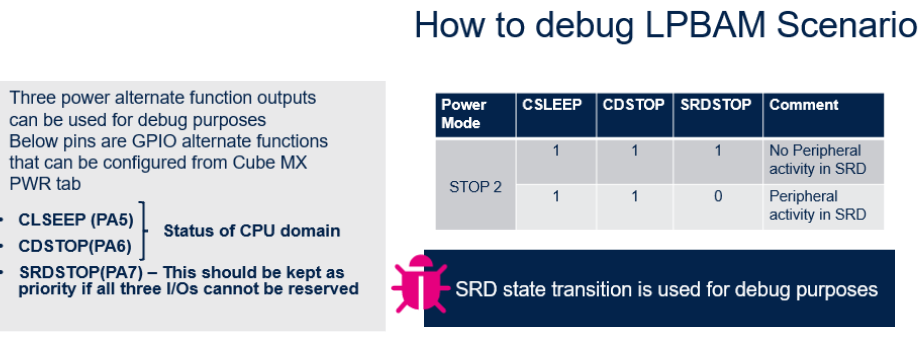
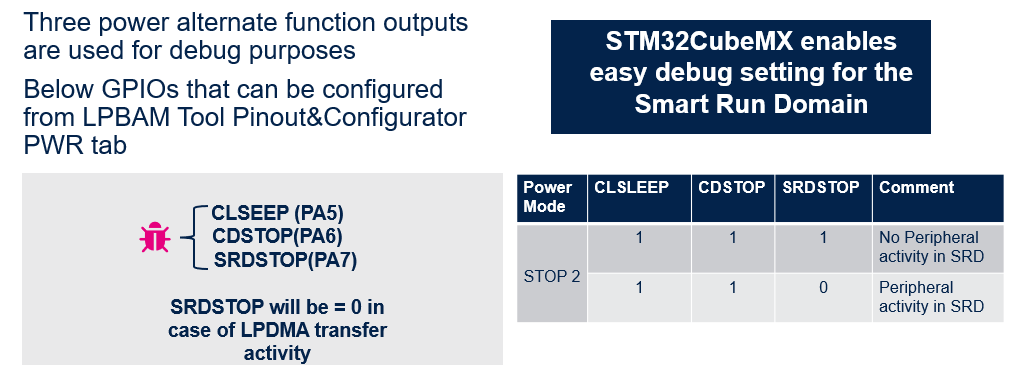
final for dry run

diff --git a/lpbam/theory/theory.md b/lpbam/theory/theory.md
@@ -1,9 +1,11 @@
 # 1 - Definition 
 ## LPBAM = Low Power Background Autonomous Mode
 
-*LPBAM* is an operating mode that allows peripherals to be functional and autonomous independently from power modes and without any software running.
-It is performed thanks to a dedicated hardware subsystem embedded in the STM32U5 microcontroller.
-It's a subsystem mechanism that makes use of DMA to configure features for several pheriperals and transfer datas if needed for communication pheriperals
+- **LPBAM** is an operating mode that allows peripherals to be functional and autonomous independently from power modes and without any software running.
+
+- It is performed thanks to a **dedicated** hardware subsystem embedded in the STM32U5 microcontroller.
+
+- It's a **subsystem mechanism** that makes use of DMA to configure features for several pheriperals and transfer data
 
 
 <!--  
@@ -42,7 +44,7 @@ Data transfers are done by DMA instead of CPU -->
   
   - LPBAM is not an IP but a *subsystem* mechanism
   - An LPBAM task can operate *independently* of device power mode (STOP 0/1/2) and without any software running on CPU thanks to DMA data transactions.
-  - An asynchronous events/interrupts can be programmed to wake up the system thanks to *autonomous peripherals* (Not all peripheral).
+  - Asyncronous events/interrupts can be programmed to wake up the system thanks to **autonomous peripherals** (Not all peripheral).
   - Automatic start of the peripheral thanks to the hardware synchronous or asynchronous triggers (automated peripheral kernel clock switching).
 
 
@@ -50,36 +52,57 @@ Data transfers are done by DMA instead of CPU -->
 # 3 - LPBAM Use Cases
 ## I2C Slave/Master transfer - SPI or UART RX/TX
 
-The first applicative example can be a communication periperals like I2C/SPI/UART configured as Master or slave for transmission
-As showed in this example we can acquire data from the sensor like a gyroscope or an accelerometer periodically waking up on complete or on ISR or for example on TC,HC of DMA using LP timer to trig communication peripheral
+The first applicative example can be a communication periperals like I2C/SPI/UART configured as Master or slave for transmission.
+
+As showed in this example, we can acquire data from the sensor like a gyroscope or an accelerometer periodically waking up on complete or on ISR or for example on TC,HC of DMA using LP timer to trig communication peripheral.
 
 ![theory1](./img/02.png)
 
 
 ## ADC Conversion triggered by a Low Power Timer
-Another typical use case is  Trigger ADC via LPTIM, we will focus on this scenario on our Hands on.
-In this case I can use analog watchdog to wake up the core when I reach a certain threshold- with no data comparison inside DMA this is a good way to wake up the core when a comparator is included in the specific peripheral
+Another typical use case is  Trigger ADC via LPTIM.
+
+<ainfo>
+ we will focus on this scenario on our Hands on
+</ainfo>
+
+<p>
+
+
+</p>
+
+
+In this case, I can use analog watchdog to wake up the core when I reach a certain threshold- with no data comparison inside DMA this is a good way to wake up the core.
 
 ![theory1](./img/03.png)
 
 ## DAC Conversion in Sample&Hold
-On a similar approach, we can change value of DAC. This can currently be used only in S&H using capacitor to keep dac value – as we have a capacitor, DAC value should be periodically reloaded.
-This very suitable low frequency output as we are also using LSI clock
-Note : We need to wait oscillator wake up before starting the transfer
+On a similar approach, we can change value of DAC.
+This can currently be used only in S&H using capacitor to keep dac value – as we have a capacitor, DAC value should be periodically reloaded.
+This very suitable low frequency output might be clocked from LSI.
+
 
 ![theory1](./img/04.png)
 
 
 ## Voice Activity Detection with Audio Digital Filter
 We can handle the transfer in stop2 to and from an analog digital filter (ADF),  waking up if we detect noise or voice.
-This is another example of peripheral with embedded comparator that can be used to wake up from stop2
+This is another example of peripheral with embedded comparator that can be used to wake up from stop2.
+
+<ainfo>
+This feature is currently not available in CubeMX 6.5.0 but its integration it's planned during 2022
+</ainfo>
 
 ![theory1](./img/04.png)
 
 
 ## LPTIM PWM ratio change, Input Capture, Pulse Counter
 On a different scenario, I can also change PWM ratio using an external trigger on a certain threshold still being in STOP2 mode
-This is as well a good example on how to creatre control loop keeping ultra low power consumptions
+This is as well a good example on how to create control loops keeping ultra low power consumptions
+
+<info>
+We will see this scenario in our practical example
+</info>
 
 ![theory1](./img/06.png)
 
@@ -90,8 +113,8 @@ LPGPIO in STOP2 can be read or written. We can build some slow communication pro
 ![theory1](./img/07.png)
 
 ## Peripherals Chaining
-This is the most complex and special feature of LPBAM- We can concatenate different peripherals which are active in STOP2 to create peripheral chaining.
-For example, we can acquire temperature on periodic way based on LPTIM trigger of an ADC, in our case ADC4
+This is the most complex and special feature of LPBAM - We can concatenate different peripherals which are active in STOP2 to create peripheral chaining.
+For example, we can acquire temperature on periodic way based on LPTIM trigger of an ADC, in our case ADC4.
 
 When temp reaches a certain threshold, we send data on SPI to an external host micro
 Analog WDT from ADC can be used as trigger as well and can be used to trigger a data to be sent to a peripheral via SPI
@@ -100,46 +123,68 @@ Analog WDT from ADC can be used as trigger as well and can be used to trigger a 
 
 
 # 3- System Architecture and DMA Overview
-LPBAM makes use of DMA instance, STM32U5 includes a new DMA IP called version3 or DMAv3 replacing all DMA that were in other STM32 series. 
-It integrates all previous DMA features Trigger, DMAMUX MDMA etc.
+- LPBAM makes use of DMA instance, STM32U5 includes a new DMA IP.
 
-We have now a single DMA driver with two HW instances which are GPDMA and LPDMA.
-Both can be used in Linked list mode.
+- It integrates all previous DMA features Trigger, DMAMUX MDMA etc.
 
-GPDMA is on the CPU domain with 2 ports port 0 and port 1 LPDMA has a single port.
+- We have now a single DMA driver with **two HW instances** which are GPDMA and LPDMA.
+  
+  Both can be used in **Linked list mode**.
+
+- GPDMA is on the CPU domain with 2 ports port 0 and port 1, LPDMA is on the Smart Run Domain and has a single port.
 
 ![theory1](./img/13.png)
 
 # 4- LPDMA Architecture
+
+- The LPDMA controller is a bus master and system peripheral. 
+
+- The LPDMA is used to perform **programmable data transfers** between memory-mapped peripherals and/or memories via **linked-lists**, upon the control of an off-loaded CPU.
+
+<p>
+During the hands on we will see how LPDMA is configured via CubeMX and LPBAM Scenario&Configurator
+</p>
 ![theory1](./img/17.png)
 
 # 5- Smart Run Domain(SRD)
-This is a zoom on smartun domain which is a clock domain with 2 masters AHB and LPDMA and slaves which are  AHB3Peripehral and internal SRAM2.
+This is a zoom on smartun domain which is a clock domain with 2 masters AHB and LPDMA and 2 slaves which are AHB3Peripehral and internal SRAM4.
 
-AHB master is bidirectional and has 4 channels 
+<p>
+
+
+</p>
+
 <ainfo>
-LPDMA can only access smart run peripherals meaning that it can only access to SRAM4  and AHB3 peripherals not to others
+LPDMA can only access smart run peripherals meaning that it can only access to SRAM4 and AHB3 peripherals
 </ainfo>
+
+
+<p>
+
+
+</p>
 
 ![theory1](./img/10.png)
 
 # 6- GPDMA vs LPDMA
-Below main difference between GPDMA and LPDMA
+Below main differences between GPDMA and LPDMA:
 
 ![theory1](./img/11.png)
 
-# 7- AHB/APB Ditribution over domains
+# 7- AHB/APB Distribution over domains
 ![theory1](./img/20.png)
 
 # 8- Clock gating
 
-In LPBAM Peripherals work down to STOP2 mode thanks to their own independent clock request capability. 
+In LPBAM Peripherals work down to STOP2 mode thanks to their own **independent clock request capability**. 
+
 This is one of the key aspects of LPBAM subsystem mechanism which enables remarkable power saving.
 
 In other MCU we would had to wake up at every DMA transfer complete flag, with LPBAM subsystem this does not happen.
 
-LPDMA HW automatically manages its own clock gating, so bus and kernel clocks are requested to RCC only when needed
-This gives great contribution to achieve best optimization of dynamic clock and results into enormous power saving of the overall system
+LPDMA HW automatically manages its own **clock gating**, so bus and kernel clocks are requested to RCC only when needed.
+
+This gives great contribution to achieve best optimization of dynamic clock and results into enormous power saving of the overall system.
 
 ![theory1](./img/15.png)
 ![theory1](./img/16.png)
@@ -158,5 +203,8 @@ This gives great contribution to achieve best optimization of dynamic clock and 
 ![theory1](./img/21.png)
 
 # 12- How to Debug LPBAM Scenario
+
+
+![theory1](./img/25.png)
 
 ![theory1](./img/22.png)

diff --git a/lpbam/handson/step5/handson6.md b/lpbam/handson/step5/handson6.md
@@ -32,7 +32,7 @@ If Nucleo-U575 is no more connected and does not reset, reconnect jumper to JP5 
 
 </p>>
 
-![lpbam config](./img/0504.png)
+![lpbam config](./img/0504.gif)
 
 # 5 Power sequence
 
@@ -62,6 +62,13 @@ RCC_OscInitStruct.MSIKClockRange = RCC_MSIKRANGE_1;
 
 Open `Cube Monitor Power` and run again the measurement - we should notice that results is quite unchanged
 
+![lpbam config](./img/0509.gif)
+
+<p>
+
+
+</p>
+
 ![lpbam config](./img/0507.png)
 
 
@@ -73,6 +80,7 @@ This happens because SRD is adjusting clock gating so DMA transfer will become m
 <p>
 
 </p>
+
 # 8 ADC Sampling Frequency change
 
 We now try to modify ADC sampling frequency to check power consumption changes when sampling frequency is increased bya  factor 10x.
@@ -107,9 +115,46 @@ RCC_OscInitStruct.MSIKClockRange = RCC_MSIKRANGE_4;
 
 Let's now measure power consumptions:
 
+![lpbam config](./img/0510.gif)
+
+<p>
+
+
+</p>
+
 ![lpbam config](./img/0508.png)
 
 <ainfo>
 Important to note that as expected consumption variation is around 30% by increasing sampling frequency of a factor 10x.
 We will compare this number vs the application w/o LPBAM in Benachmark chapter
 </ainfo>
+
+---
+
+# 9 SMART RUN DOMAIN RUNNING MODE
+
+We would now like to see the impact of clock gating meckanism of the autonomous peripheral.
+We can enable the SRD always on in stop2.
+To do so you need to reoped .ioc file and go to **LBAM Scenario&Configuration**
+
+![lpbam config](./img/0511.gif)
+
+
+in our code inside `lpbam_lpbamap1_config.c` in `MX_SystemPower_Config` was changed the following function from `PWR_SRD_DOMAIN_STOP` to PWR_SRD_DOMAIN_RUN :
+
+```nc
+/*
+   * Smart Run Domain Config
+   */
+  HAL_PWREx_ConfigSRDDomain(PWR_SRD_DOMAIN_RUN);
+```
+
+We now measure power consumption. We notice that averege power consumption during STOP2 goes into **~50uA** range
+
+![lpbam config](./img/0512.gif)
+
+
+<asuccess>
+We demostrated the impact on power consumption of peripherals autonomous clock request capability
+</asuccess>
+

diff --git a/lpbam/handson/step11/handson12.md b/lpbam/handson/step11/handson12.md
@@ -1,0 +1,21 @@
+# Reference Links
+
+---
+
+ ## [1] Reference manual STM32U575xx and STM32U585xx advanced Arm-based 32-bit MCUs [RM0456](https://www.st.com/resource/en/reference_manual/rm0456-stm32u575585-armbased-32bit-mcus-stmicroelectronics.pdf)
+
+## [2] Datasheets for STM32U575xx (DS13737) and STM32U585xx [DS13086](https://www.st.com/resource/en/datasheet/stm32u585ai.pdf)
+
+## [3] Application note STM32 microcontroller GPIO configuration for hardware settings and low-power consumption [AN4899](https://www.st.com/content/ccc/resource/technical/document/application_note/group0/13/c0/f6/6c/29/3b/47/b3/DM00315319/files/DM00315319.pdf/jcr:content/translations/en.DM00315319.pdf)
+
+## [4] Application note STM32U575/585 power optimization [AN5652](https://www.st.com/resource/en/application_note/an5652-stm32u575585-power-optimization-stmicroelectronics.pdf)
+
+## [5] Application note STM32U5 Series power optimization using LPBAM [AN5645](https://www.st.com/resource/en/application_note/an5645-stm32u5-series-power-optimization-using-lpbam-stmicroelectronics.pdf)
+
+---
+
+<p>
+
+</p>
+
+![theory1](./img/1101.png)

diff --git a/lpbam/handson/step6/handson7.md b/lpbam/handson/step6/handson7.md
@@ -1,4 +1,11 @@
 # Benchmark
+## Application used for benckmar can be found here on [sharepoint](https://stmicroelectronics.sharepoint.com/sites/EMEAMCD/Shared%20Documents/Forms/AllItems.aspx?id=%2Fsites%2FEMEAMCD%2FShared%20Documents%2F5%2E%20Promotion%2FWorkshops%2FSTM32U5%5Fworkshop%5F2022%2FMaterial%2FMaterial%5FLPBAM%5Fhandson%2Fdry%5Frun%5Fworkshop%5Finterrupt%5Fbenchmark%2Ezip&parent=%2Fsites%2FEMEAMCD%2FShared%20Documents%2F5%2E%20Promotion%2FWorkshops%2FSTM32U5%5Fworkshop%5F2022%2FMaterial%2FMaterial%5FLPBAM%5Fhandson)
+
+<p>
+
+
+
+</p>
 
 We now need to compare low power result vs standard approach. 
 
@@ -40,6 +47,8 @@ Follow the steps showed in the previous chapter
 
 3- Start the measurement
 
+![Cubemx start](./img/0704.gif)
+
 ![Cubemx start](./img/0702.png)
 
 ## Sampling frequency change
@@ -52,6 +61,8 @@ in 'private define' section add
 
 ```
 Build and Run the application then connect Power Monitor and start measurement
+
+![Cubemx start](./img/0705.gif)
 
 ![Cubemx start](./img/0703.png)
 

diff --git a/lpbam/handson/step1/handson0.md b/lpbam/handson/step1/handson0.md
@@ -1,5 +1,17 @@
 # **Hands On Overview**
 
+
+## Contents for the LPBAM hands-on can be found at this link
+[sharepointlink](https://stmicroelectronics.sharepoint.com/sites/EMEAMCD/Shared%20Documents/Forms/AllItems.aspx?id=%2Fsites%2FEMEAMCD%2FShared%20Documents%2F5%2E%20Promotion%2FWorkshops%2FSTM32U5%5Fworkshop%5F2022%2FMaterial&viewid=5098bdc4%2Dc00e%2D465c%2D9b64%2Dd00de0f5947d)
+
+<awarning>
+You might be require to sign in with your ST email and password
+</awarning>
+<p>
+
+
+</p>
+
 In LPBAM Handson we will implement the following scenario making use of **two queues**.
 We will use ADC4 and LPTIM1 which are peripherals available in STOP2 into SRD.
 
@@ -24,3 +36,6 @@ Same application can also run on a single queue, our purpose it to show how to h
 
  ## Queue 2
  ![Cubemx start](./img/0003.png)
+
+
+ 

diff --git a/lpbam/handson/step8/handson9.md b/lpbam/handson/step8/handson9.md
@@ -1,9 +1,9 @@
 
 # WRAP UP
 
-STM32U5 enables disruptive innovation to achieve the best in class ultra low power performance thanks to LPBAM. 
+- STM32U5 enables disruptive innovation to achieve the best in class ultra low power performance thanks to LPBAM. 
 
-Most of the peripheral configuration and code needed to achive the lowest power consumption are generated by STM32Cube Mx thanks to LBAM Tool.
+- Most of the peripheral configuration and code needed to achive the lowest power consumption are generated by STM32Cube Mx thanks to LBAM Tool.
 
 ## LPBAM Tool ##
 

diff --git a/lpbam/handson/step3/handson4.md b/lpbam/handson/step3/handson4.md
@@ -144,7 +144,7 @@ We also added a blue led and user button to be pressed in order to enter in STOP
 }
 
 HAL_GPIO_WritePin(LED_BLUE_GPIO_Port, LED_BLUE_Pin, GPIO_PIN_RESET);
-
+HAL_GPIO_DeInit(USER_BUTTON_GPIO_Port, USER_BUTTON_Pin);
 
      MX_LpbamAp1_Init();
 /* LPBAM ADC application InSwitch init */
